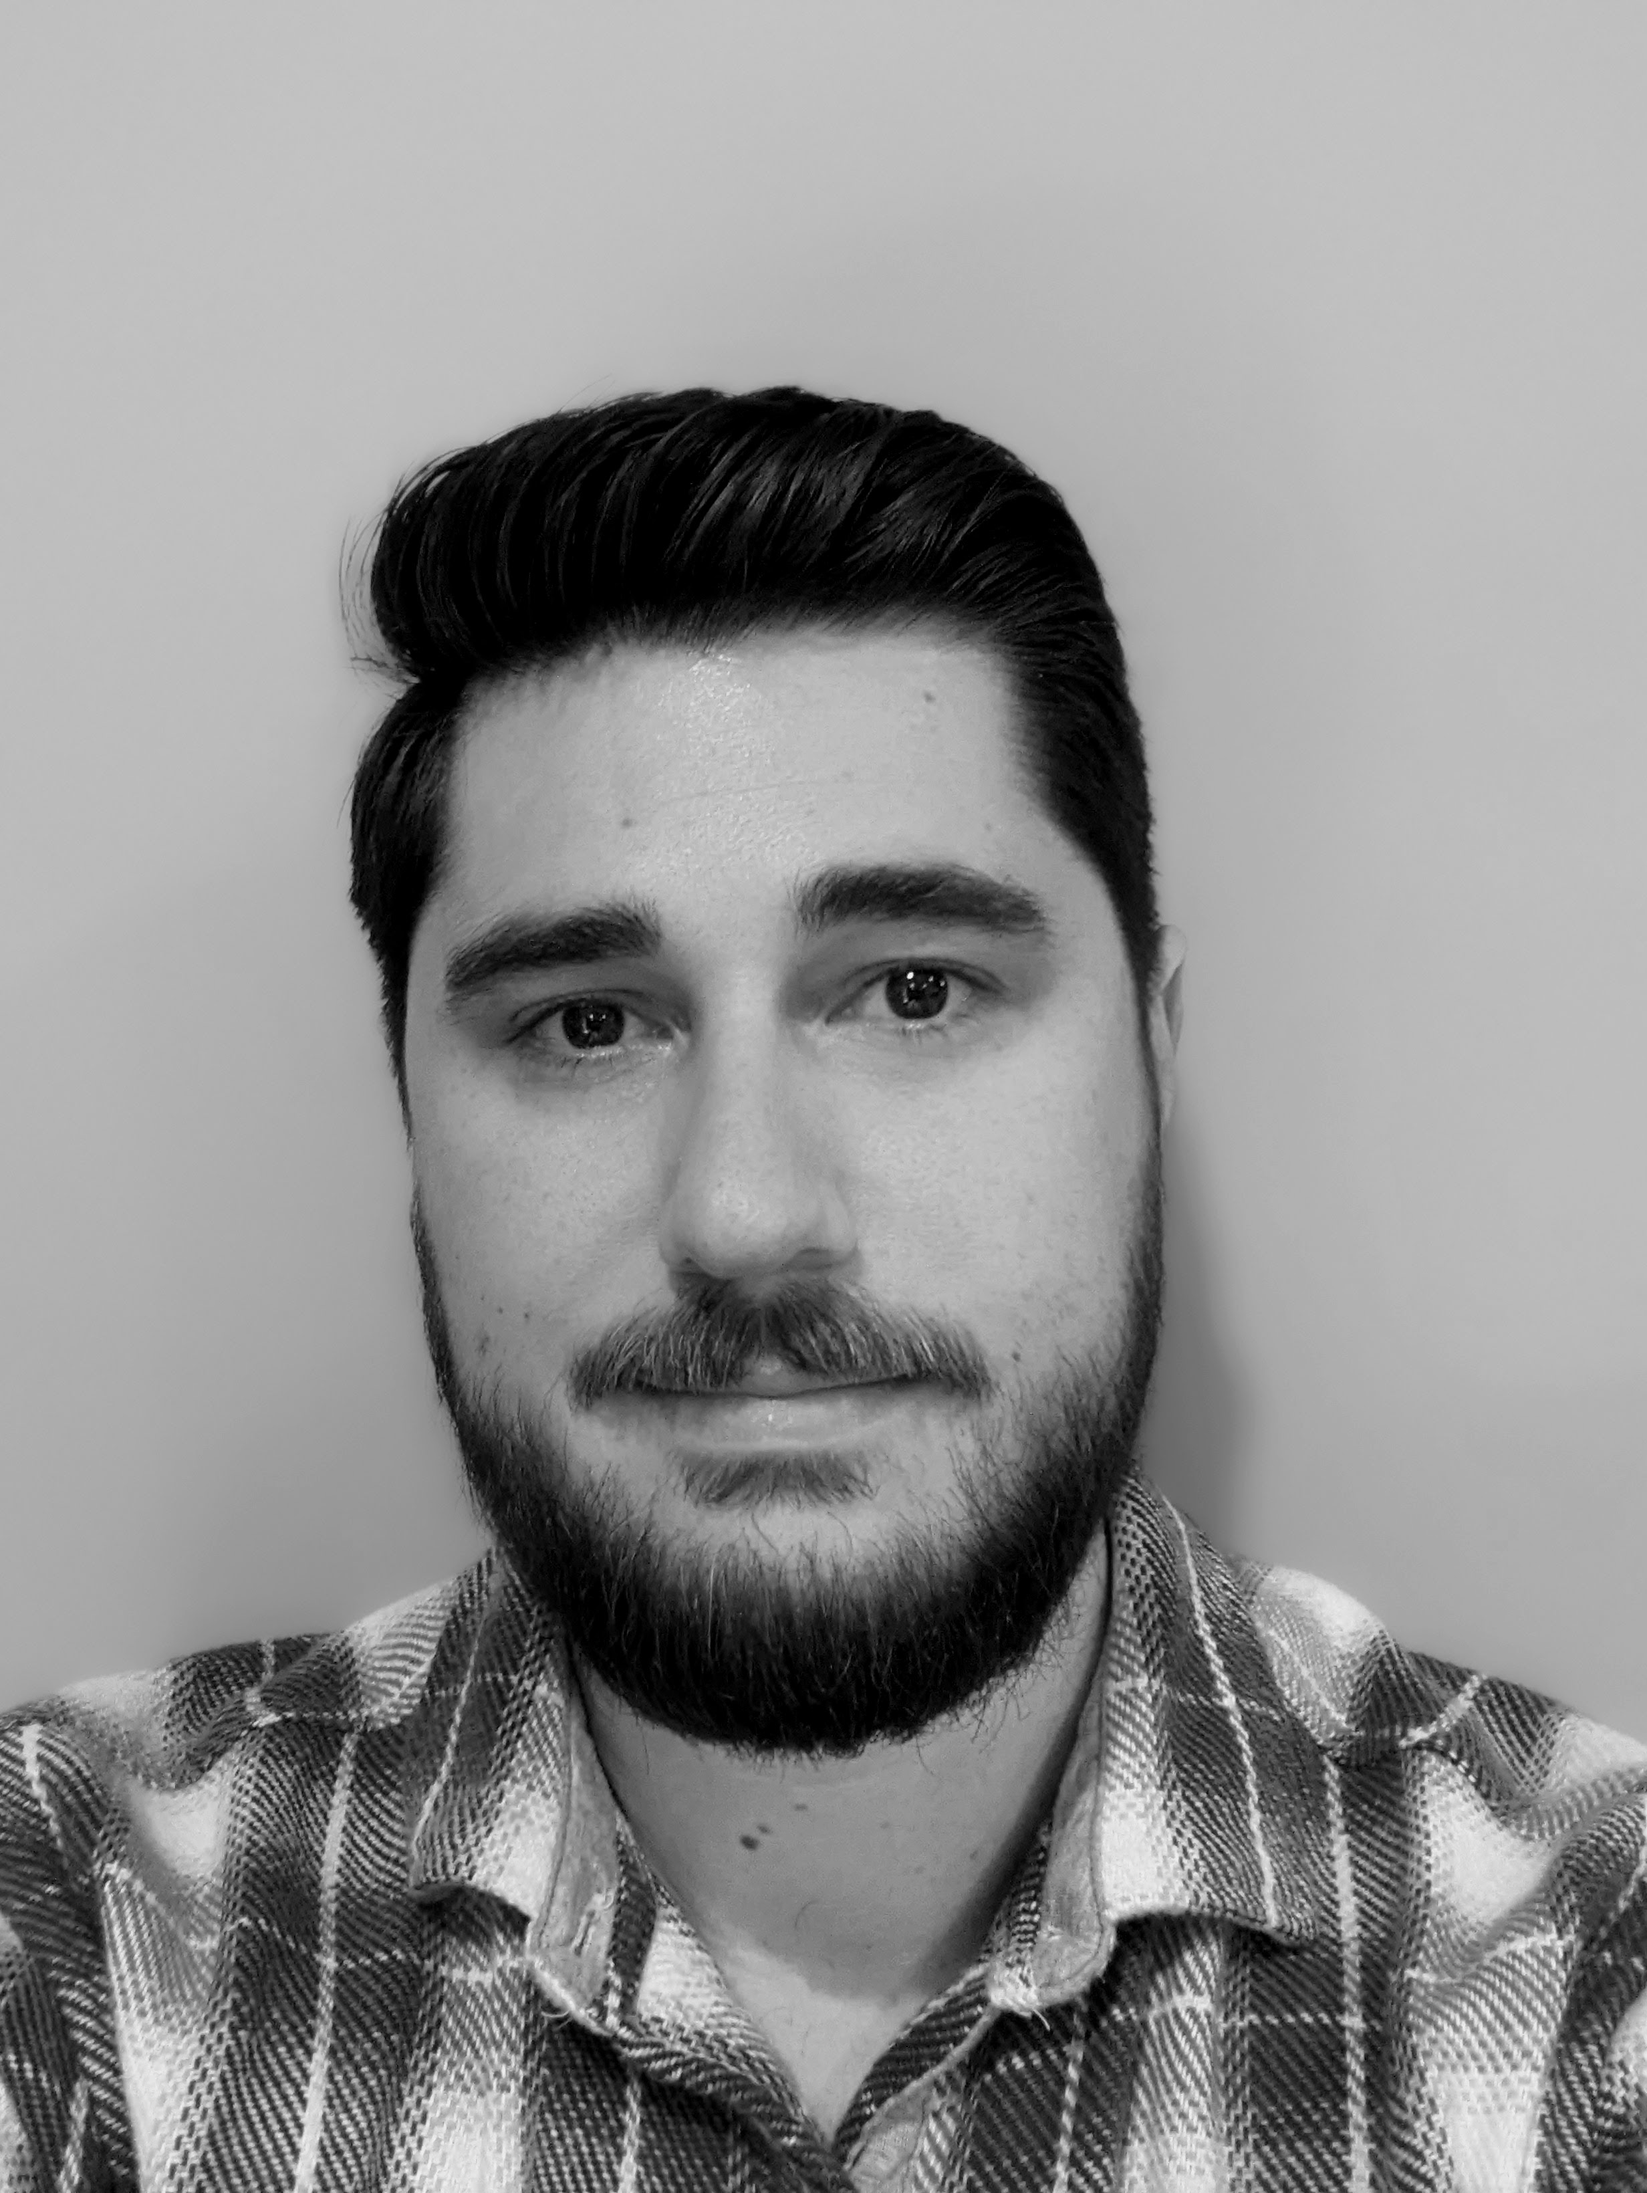
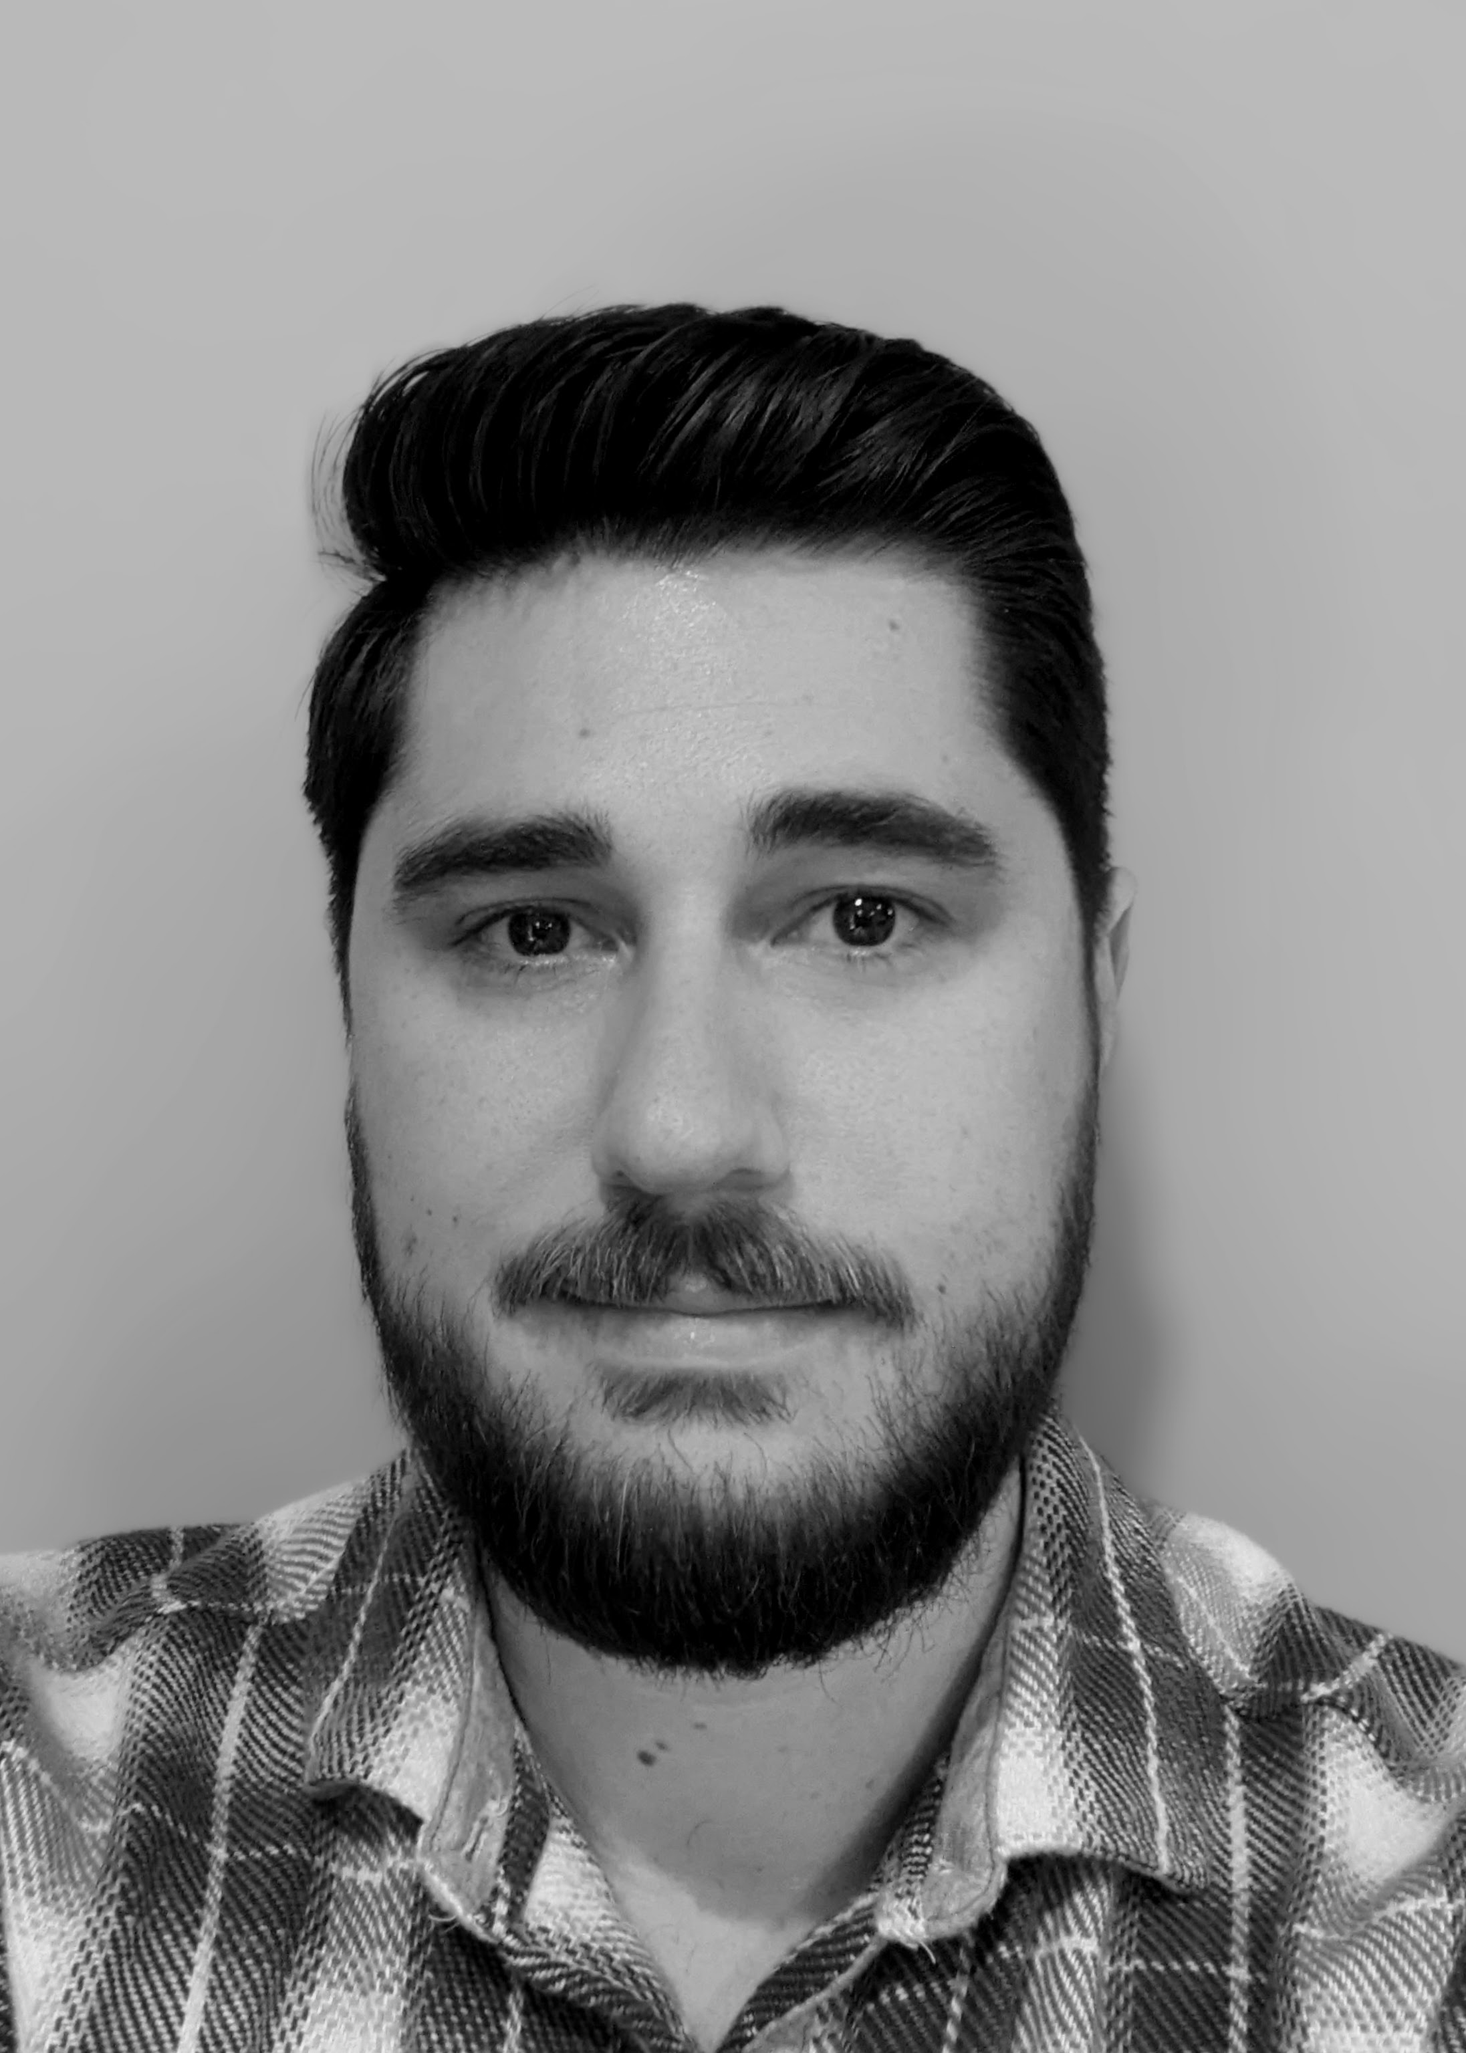
Updated profile pic

diff --git a/components/home/hero.js b/components/home/hero.js
@@ -95,11 +95,12 @@ const Hero = () => {
           <div className={`${classes.columnRight} ${classes.profilePic}`}>
             {/* Display the profile picture using Next.js Image component */}
             <Image
-              src='/images/profile-pic.webp'
+              src='/images/profile-pic-1.jpg'
               width={460}
               height={460}
               alt='profile-pic'
               data-aos='fade-left'
+              className='zoomed-out-image'
             />
           </div>
         </div>

diff --git a/components/home/hero.module.scss b/components/home/hero.module.scss
@@ -152,7 +152,7 @@
       display: flex;
       flex-direction: column;
       width: 55%;   /* Adjust the size of the desktop profile image*/
-      margin-bottom: auto;
+      margin-bottom: unset;
       margin-top: 40px;
       margin: auto;
 
